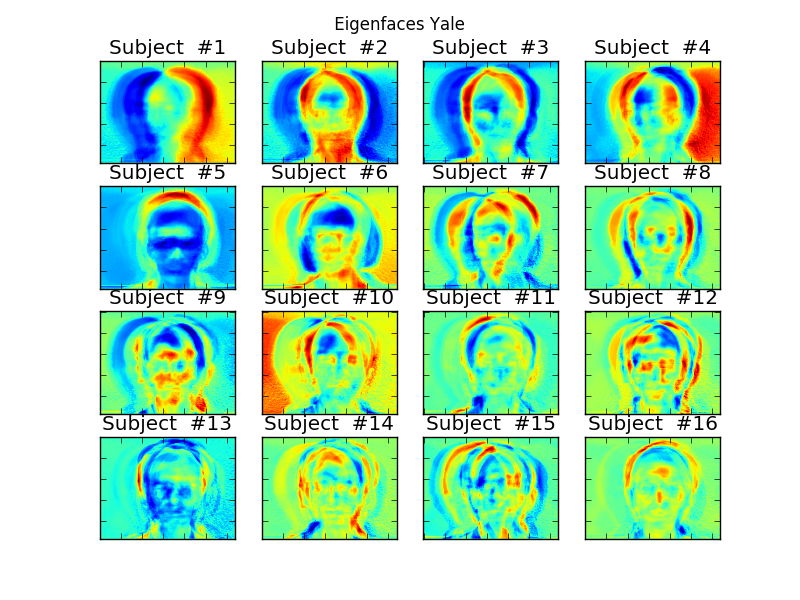
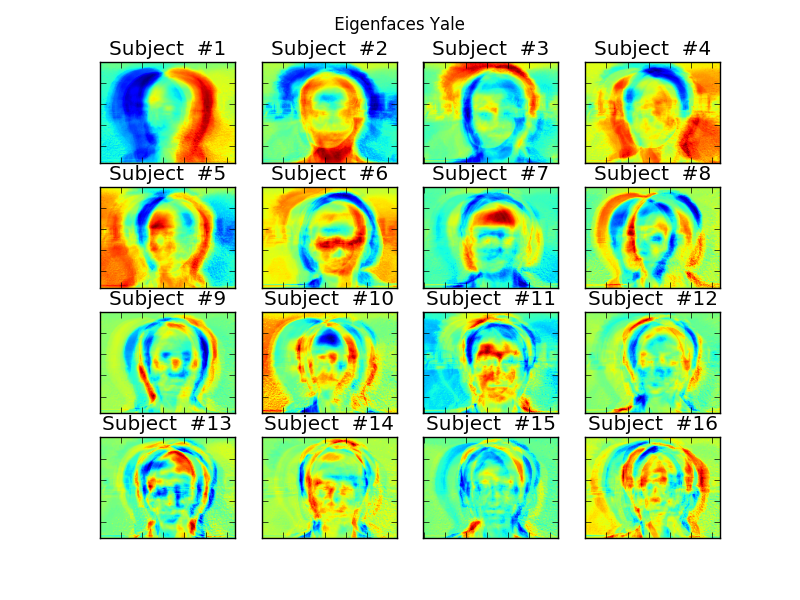
Eduardo in faces dataset. Recogniser working. Face cutting in tracking done

diff --git a/objectTracker/objectTracking.py b/objectTracker/objectTracking.py
@@ -13,9 +13,9 @@ class Tracker:
             self.type = 'camera'
         else:
             self.type= 'video'
-        self.objectToTrack = None
+        self.objectsToTrack = []
         self.face = face
-        self.roiHist = None
+        self.roiHist = []
         self.termCrit = (cv2.TERM_CRITERIA_EPS | cv2.TERM_CRITERIA_COUNT, 10, 1)
 
     # Seleccionar area de interes en el self.frame deseado.
@@ -52,21 +52,46 @@ class Tracker:
 
 
             # ya hay objeto?
-            if self.objectToTrack is not None:
-                # convertir a hsv
-                hsv = cv2.cvtColor(self.frame, cv2.COLOR_BGR2HSV)
-                backProj = cv2.calcBackProject([hsv], [0], self.roiHist, [0, 180], 1)
+            if self.objectsToTrack:
+                count = 1
+                for objectToTrack in self.objectsToTrack:
 
-                # aplicar camshift/meanshift
-                if self.face==None:
-                    color = (255,0,0)
-                    (r, self.objectToTrack) = cv2.meanShift(backProj, self.objectToTrack, self.termCrit)
-                else:
-                    color = (255,255,0)
-                    (r, self.objectToTrack) = cv2.CamShift(backProj, self.objectToTrack, self.termCrit)
+                    # convertir a hsv
+                    hsv = cv2.cvtColor(self.frame, cv2.COLOR_BGR2HSV)
+                    backProj = cv2.calcBackProject([hsv], [0], self.roiHist[count-1], [0, 180], 1)
 
-                x,y,w,h = self.objectToTrack
-                cv2.rectangle(self.frame, (x,y), (x+w,y+h), color,2)
+                    # aplicar camshift/meanshift
+                    if self.face==None:
+                        color = (255,0,0)
+                        (r, objectToTrack) = cv2.meanShift(backProj, objectToTrack, self.termCrit)
+                        x,y,w,h = objectToTrack
+                        x = (x+10)
+                        y = (y+10)
+                        w = (w-15)
+                        h = (h-15)
+                        cv2.rectangle(self.frame, (x,y), (x+w,y+h), color,2)
+
+                    else:
+                        color = (255,255,0)
+                        (r, objectToTrack) = cv2.CamShift(backProj, objectToTrack, self.termCrit)
+
+                        pts = np.int0(cv2.cv.BoxPoints(r))        
+                        # cv2.polylines(self.frame, [pts], True, color, 1)
+                        x,y,w,h = objectToTrack
+                        x = (x+10)
+                        y = (y+10)
+                        w = (w-15)
+                        h = (h-15)
+
+                        extra_img = self.frame[y: y+h, x: x+w]
+                        self.faceInWindow(count, extra_img)
+
+                    count = count+1
+                
+                print('hey')
+                if self.face != None:
+                    del self.objectsToTrack[:]
+                    del roiPts[:]
 
             cv2.imshow("frame", self.frame)
             # Esperar a que se presione tecla
@@ -104,9 +129,9 @@ class Tracker:
             roi = cv2.cvtColor(roi, cv2.COLOR_BGR2HSV)
 
             # obtener histograma de colores y normalizar
-            self.roiHist = cv2.calcHist([roi], [0], None, [16], [0, 180])
-            self.roiHist = cv2.normalize(self.roiHist, self.roiHist, 0, 255, cv2.NORM_MINMAX)
-            self.objectToTrack = (tl[0], tl[1], br[0], br[1])
+            rh = cv2.calcHist([roi], [0], None, [16], [0, 180])
+            self.roiHist.append(cv2.normalize(rh, rh, 0, 255, cv2.NORM_MINMAX))
+            self.objectsToTrack.append((tl[0], tl[1], br[0], br[1]))
 
         # salir del programa
         elif key == ord("q"):
@@ -114,6 +139,7 @@ class Tracker:
 
     def faceFinding(self):
         global roiPts
+        self.objectsToTrack = []
         orig = self.frame.copy()
         violajones = vj.ViolaJones(self.frame, 'Video')
         faceRects = violajones.vj()
@@ -121,18 +147,34 @@ class Tracker:
         # #Aplicar Viola jones. Transformar a gris
         # gray = cv2.cvtColor(self.frame, cv2.COLOR_BGR2GRAY)
         # faceRects = fd.detect(gray, scaleFactor = 1.1, minNeighbors = 5, minSize = (10, 10))
+        print("Total faces : "+str(len(faceRects)))
+        count = 1
         for (x, y, w, h) in faceRects:
-            cv2.rectangle(self.frame, (x, y), (x + w, y + h), (0, 255, 0), 2)
+            x = (x+10)
+            y = (y+10)
+            w = (w-15)
+            h = (h-15)
+            # cv2.rectangle(self.frame, (x, y), (x + w, y + h), (0, 255, 0), 2)
             roiPts.append((x, y, x+w, y+h))
+
+            count = count+1
+
             ## append points from violajones
             #show the detected faces
         self.createHist()
 
+    def faceInWindow(self, faceNumber, image):
+        name = "face "+str(faceNumber)
+        cv2.imshow(name, image)
+        cv2.resizeWindow(name, 300, 200)
+        cv2.moveWindow(name, 0, 200*faceNumber-1)
+
+
     def createHist(self):
+        global roiPts
         i = 1
         orig = self.frame.copy()
         for rp in roiPts:
-            i = i+1
             # Grab the ROI for the bounding box by cropping and convert it
             # to the HSV color space.
             roi = orig[rp[1]:rp[-1], rp[0]:rp[2]]
@@ -142,5 +184,6 @@ class Tracker:
             # bounding box
             rh = cv2.calcHist([roi], [0], None, [16], [0, 180])
             rh = cv2.normalize(rh, rh, 0, 255, cv2.NORM_MINMAX)
-            self.objectToTrack = (rp[0], rp[1], rp[2], rp[-1])
-            self.roiHist=rh;
+            self.objectsToTrack.append((rp[0], rp[1], rp[2], rp[-1]))
+            self.roiHist.append(rh)
+            i = i+1

diff --git a/example_eigenfaces.py b/example_eigenfaces.py
@@ -12,7 +12,12 @@ import os
 import Image
 import cv2
 print("Reading training faces")
-[X,y] = reader("./faceRecogniser/yalefaces")
+# uncomment to use Yale faces 
+# [X,y, filenames] = reader("./faceRecogniser/yalefaces", [320, 240])
+
+
+# uncomment to use ATT faces
+[X,y, filenames] = reader("./faceRecogniser/faces", [92, 112])
 
 print("Generating model")
 model = EigenfacesModel(X[1:], y[1:])
@@ -21,19 +26,23 @@ model = EigenfacesModel(X[1:], y[1:])
 
 copy = X
 
-shuffle(copy)
+# shuffle(copy)
 E=[]
-for i in xrange(0,16):
+
+
+# For Yale faces
+# for i in xrange(0,16):
+
+# For ATT faces
+for i in xrange(0, 42):
     e = W[:, i].reshape(X[0].shape)
     image = util.normalize(e, 0, 255)
     # cv2.imshow(str(i), image)
-    E.append(util.normalize(e, 0, 255))
+    E.append(image)
 
 
 filename="./pca/python_pca_eigenfaces.png"
-pca.subplot(title=" Eigenfaces Yale ", images=E, rows=4, cols=4,
-        sptitle="Subject ", colormap=cm.jet,
-        filename=filename)
+
 
 print("We will print which eigenface is the nearest neighbor between the training images and 10 random query images")
 raw_input("press any key to continue")
@@ -42,30 +51,51 @@ raw_input("press any key to continue")
 
 fig = plt.figure()
 
+for i in range ( 0, len(filenames) ):
+    filenames[i] = filenames[i].split("faces/s")[1]
+
+
+################ Show eigenfaces
+# # For Yale faces
+# pca.subplot(title=" Eigenfaces Yale ", images=E, rows=4, cols=4,
+
+# For ATT faces
+# # pca.subplot(title=" Eigenfaces ATT ", images=E, rows=9, cols=5,
+#         sptitle="Subject ", colormap=cm.jet,
+#         filename=filename)
+
+shuffle(X)
 for i in xrange(0,10):
-    random = randint(0, 159)
-    prediction = model.predict((copy[random]))
-    print("Predicted subject: "+str(prediction))
+    random = randint(0, len(X))
+    # while (model.predict(X[random])!= 23):
+        # random = randint(0, len(X))
+    prediction = model.predict(X[random])
+    subject = filenames[prediction]
     ax0 = fig.add_subplot(10, 2, ((i*2)+1))
     plt.setp(ax0.get_xticklabels(), visible=False)
     plt.setp(ax0.get_yticklabels(), visible=False)
-    plt.title("image:")
-    plt.imshow((copy[random]))
+    plt.title("Predicted subject: "+str(subject))
+    # plt.title("predicted: "+str(prediction))
+    plt.imshow((X[random]))
     ax0 = fig.add_subplot(10, 2, ((i*2)+2))
     plt.setp(ax0.get_xticklabels(), visible=False)
     plt.setp(ax0.get_yticklabels(), visible=False)
-    plt.title("Predicted subject: "+str(prediction))
+    plt.title("Predicted subject: "+str(subject))
+    print("Predicted subject: "+str(subject))
+    print("Predicted folder: "+str(subject))
     plt.imshow(E[prediction])
+
 
 plt.show()
 
-
+shuffle(X)
 print("Now, we will shuffle the set of images and we will predict the subject based on the face")
 raw_input("Press any key to continue")
 for i in range(0, len(X)):
     prediction = model.predict(copy[i])
-    print("Predicted subject: "+str(prediction))
-    cv2.imshow("Subject "+str(model.predict(copy[i])), copy[i])
+    subject = filenames[prediction]
+    print("Predicted subject: "+str(subject))
+    cv2.imshow("Subject "+str(subject), copy[i])
     # plt.imshow(E[prediction], interpolation='nearest')
     # plt.show()
     cv2.waitKey(1) & 0xFF

diff --git a/faceRecogniser/facerecutil.py b/faceRecogniser/facerecutil.py
@@ -1,3 +1,4 @@
+import sys
 import numpy as np
 import os
 import Image
@@ -6,26 +7,29 @@ import Image
 
 def read_training_images(path, sz=None):
     c = 0
-    X, y = [], []
+    X, y, files = [], [], []
+    count = 0
     for dirname, dirnames, filenames in os.walk(path):
         for subdirname in dirnames:
             subject_path = os.path.join(dirname, subdirname)
-            print(subject_path)
+            print("subject "+str(c)+": "+subject_path)
+            count = count+1
             for filename in os.listdir(subject_path):
                 try:
                     im = Image.open(os.path.join(subject_path, filename))
                     im = im.convert("L")
                     # resize to given size (if given)
                     if (sz is not None):
-                        im = im.resize(self.sz, Image.ANTIALIAS)
+                        im = im.resize(sz, Image.ANTIALIAS)
                     X.append(np.asarray(im, dtype=np.uint8))
                     y.append(c)
                 except IOError as (errno, strerror): print ("I/O error({0}): {1}".format(errno, strerror))
                 except:
                     print ("Unexpected error:", sys.exc_info()[0])
                     raise
+            files.append(subject_path)
             c = c+1
-    return [X, y]
+    return [X, y, files]
 
 
 def asRowMatrix(X):
